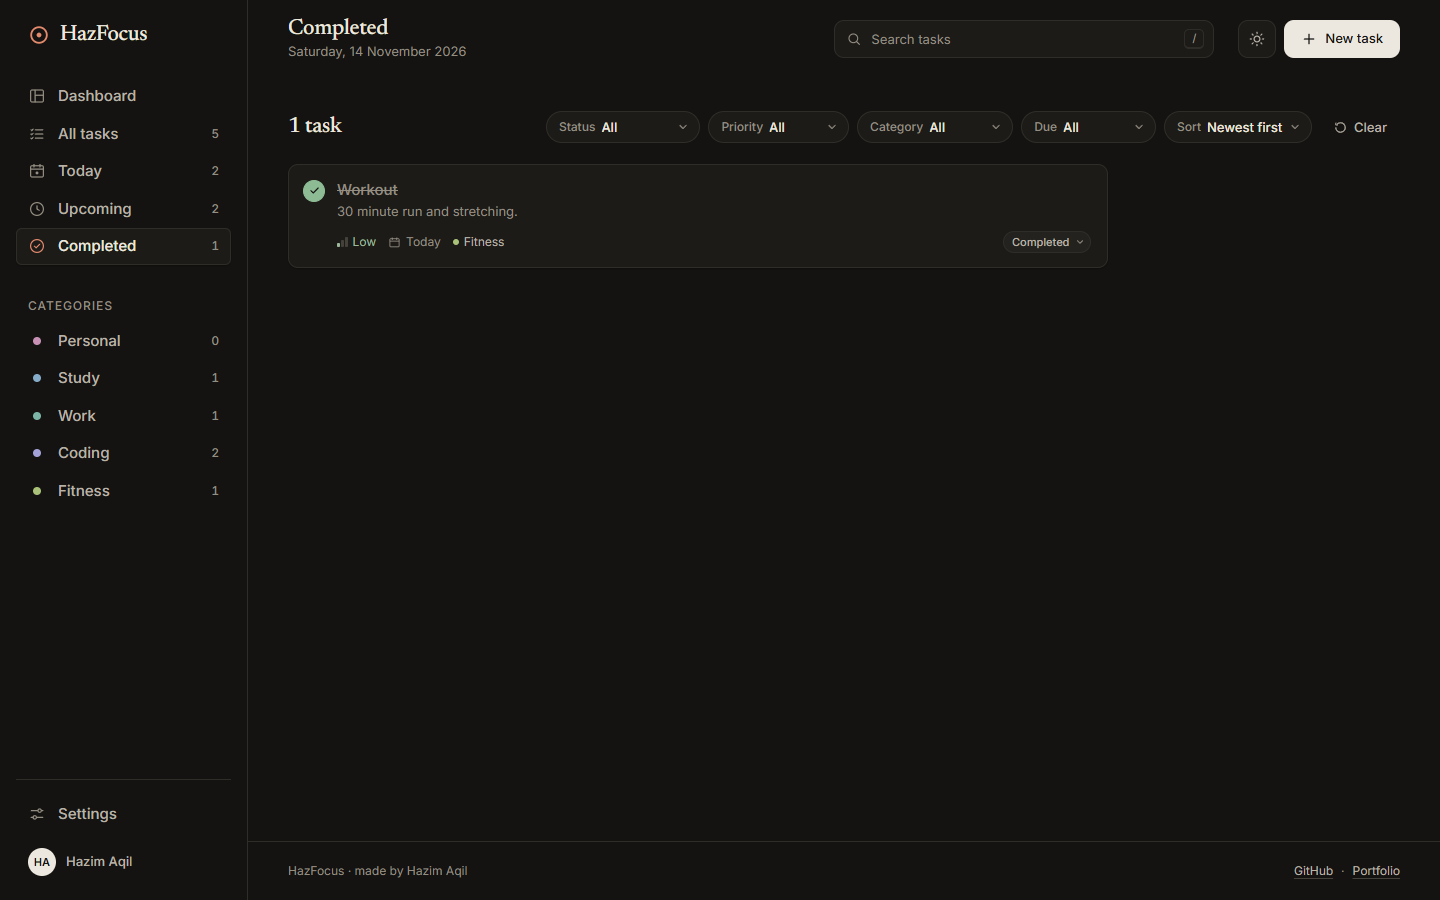
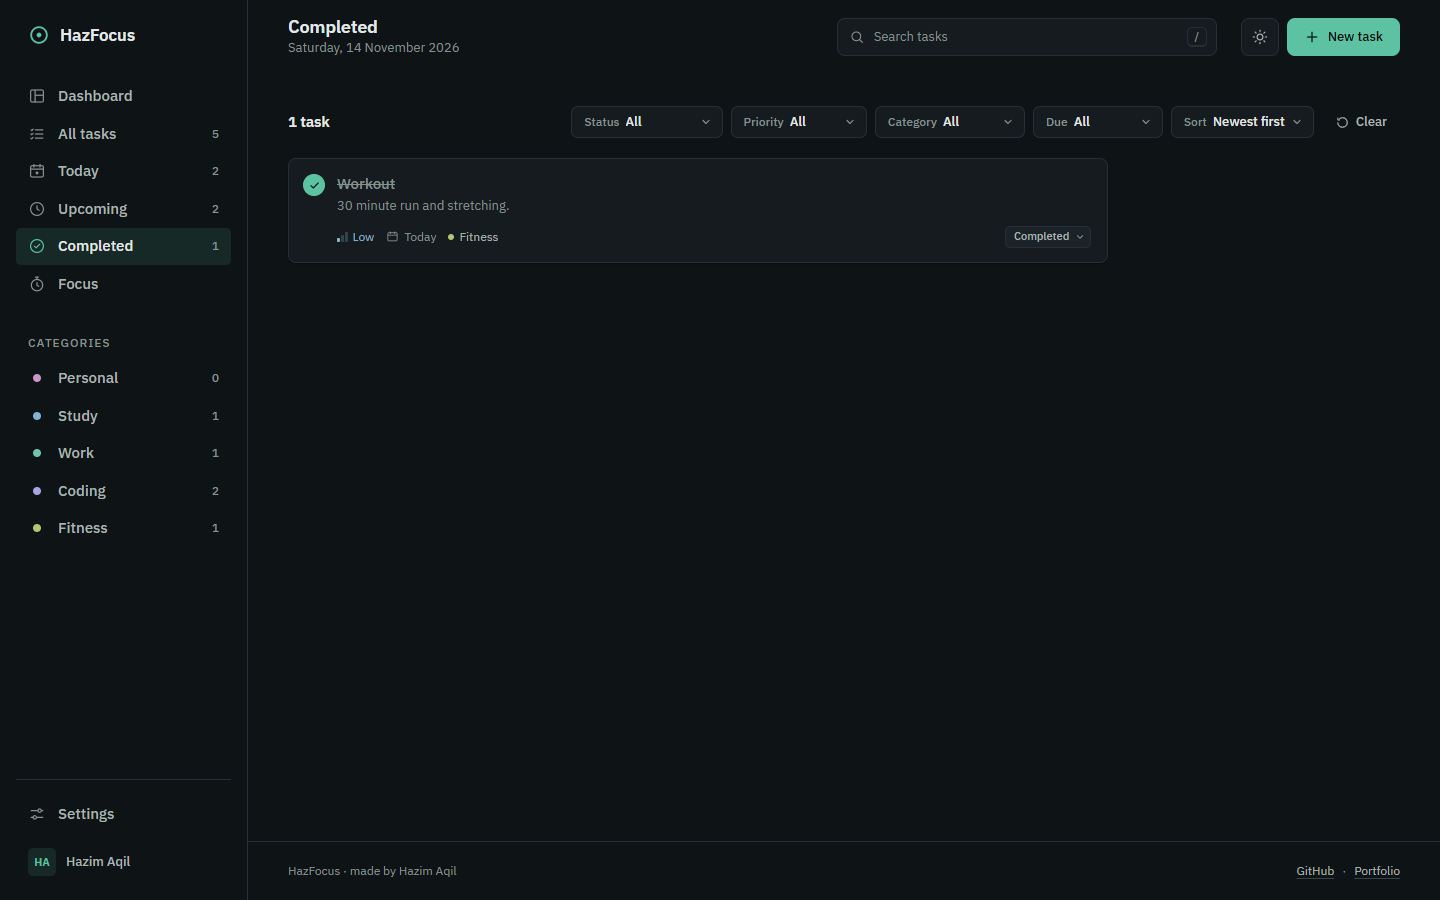
Add design notes, refresh screenshots and fix chart contrast
- add docs/DESIGN.md with the audit, slate and teal identity, colour
  tokens and the comparison with the portfolio
- update the readme feature list for the agenda, areas, last 7 days
  chart and day-grouped schedule
- replace the before/after screenshots in docs/redesign with the
  slate and teal version
- darken the light theme chart bars to #0d9488 so they reach 3:1
  contrast against the card

diff --git a/css/style.css b/css/style.css
@@ -74,7 +74,7 @@
   --cat-work: #0f766e;
   --cat-coding: #6d4fd8;
   --cat-fitness: #4d7c0f;
-  --chart: #14b8a6;
+  --chart: #0d9488;
 
   --shadow-sm: 0 1px 2px rgba(15, 23, 42, 0.05);
   --shadow-md: 0 1px 3px rgba(15, 23, 42, 0.06), 0 6px 18px rgba(15, 23, 42, 0.07);

diff --git a/docs/DESIGN.md b/docs/DESIGN.md
@@ -1,0 +1,76 @@
+# HazFocus design notes
+
+How the interface was audited and redesigned, and why it looks the way it does.
+
+## 1. Audit of the original design
+
+**Kept**
+- the information architecture: Dashboard, All tasks, Today, Upcoming, Completed, Focus, Settings
+- the kanban board with drag and drop, the status dropdown on each card, filters, sorting and search
+- the task model (title, notes, category, priority, due date, status) and every `localStorage` key
+- keyboard shortcuts, toasts, empty states, the confirmation modal
+
+**Improved**
+- typography: one sans family with a clear size and weight scale instead of mixed display fonts
+- the dashboard: it showed a few counters and a "needs attention" list, which made it look like a stats page instead of a personal workspace
+- the phone layout: a bottom tab bar, swipeable board lanes, bottom-sheet dialogs, and a fix for a horizontal overflow caused by the hidden chart table
+- dark mode: tuned as its own palette rather than a copy of the light one
+
+**Redesigned**
+- the whole colour system and component shapes (see section 2)
+- the dashboard became a workspace: agenda, areas, the last 7 days, and a progress summary
+- Upcoming and Today became a schedule grouped by day
+
+## 2. Product identity: a calm slate and teal tool
+
+HazFocus should feel like a quiet tool you leave open all day, not a showcase page.
+
+| | Light | Dark |
+|---|---|---|
+| Background | `#f8fafc` slate | `#0b1220` deep navy |
+| Surface | `#ffffff` | `#111a2b` |
+| Text | `#0f172a` / `#334155` / `#5b6779` | `#e2e8f0` / `#b4c0d0` / `#94a3b8` |
+| Accent (one only) | `#0f766e` teal | `#2dd4bf` teal |
+| Break timer | `#2563eb` | `#93c5fd` |
+| Status (overdue, high priority) | `#c62828` | `#f87171` |
+| Chart bars | `#0d9488` | `#2dd4bf` |
+
+- **Type:** Inter for everything. Hierarchy comes from size and weight, not from a second font.
+- **Shape:** soft 10 to 16px corners, pill chips and counts, tinted board lanes, white panel cards.
+- **Colour discipline:** teal is the only accent. Red appears only for overdue and high-priority items, so it always means something.
+- **Contrast:** every text pair meets WCAG AA in both themes, and the chart bars are above 3:1 against their card.
+- **Motion:** short, functional transitions, turned off under `prefers-reduced-motion`.
+
+All tokens are custom properties at the top of `css/style.css`. The dark theme overrides them under `[data-theme="dark"]`.
+
+## 3. Independence from my other projects
+
+The portfolio uses a warm near-black and cream palette, an orange accent, a serif display font and cream pill buttons. An earlier HazFocus redesign borrowed that same editorial look, so the two read like one template. This version deliberately moves away from it:
+
+| | Portfolio | HazFocus |
+|---|---|---|
+| Palette | warm black, cream | cool slate, deep navy |
+| Accent | orange | teal |
+| Type | serif display plus sans | one sans (Inter) |
+| Feel | editorial, showcase | quiet utility, workspace |
+
+I compared HazFocus against the live portfolio. The e-commerce project (HazStore) wasn't available to inspect, so it isn't compared here beyond avoiding its known editorial style.
+
+## 4. Workspace features (all from real data)
+
+No numbers are invented. Every view is built only from the user's own tasks and focus sessions.
+
+- **Agenda:** overdue, today and the next dated tasks, grouped by day (up to 8)
+- **Areas:** each category's done/total with a progress bar; clicking one opens that category with a summary strip
+- **Last 7 days:** tasks completed per day (from each task's `completedAt`) and focus minutes; hover or focus a bar for details; a hidden table backs it for screen readers
+- **Schedule:** when sorted by due date, task lists are grouped under day headings
+- **Focus timer:** Pomodoro cycle, a "working on" task, today's focus time and a distraction-free mode
+
+Older tasks saved without a completion date aren't counted in the chart, because there's no way to know when they were finished.
+
+## 5. Accessibility
+
+- semantic landmarks, labelled controls, `aria-live` toasts, focus rings on every control
+- the chart has a text summary, labelled bars and a table alternative
+- the board works without drag and drop (status dropdown), and on touch with a long press
+- larger controls in the phone tab bar; reduced-motion respected

diff --git a/README.md b/README.md
@@ -27,7 +27,8 @@ This project was built to practice core frontend skills without any framework or
 - **Sorting** by newest, oldest, due date, priority or alphabetical order
 - **Search** by title, description or category
 - **Statistics** (total, completed, pending, overdue) and a progress bar
-- **Needs attention** list on the dashboard with overdue and due-today tasks
+- **Workspace dashboard** with an agenda (overdue, today and the next dated tasks grouped by day), area progress per category and a last 7 days chart of completed tasks and focus minutes, all from your own data
+- **Schedule view**: when sorted by due date, task lists are grouped under day headings
 - **Focus timer** (Pomodoro): 25 minute focus sessions, short breaks and a long break after every fourth session, with adjustable lengths, a soft chime, a "working on" task, today's focus time and a distraction-free mode
 - **Keyboard shortcuts**: `N` new task, `/` search, `1`–`6` switch views, `Space` start or pause the timer, `R` reset it, `F` hide distractions, `Esc` close or clear
 - **Views** for Dashboard, All tasks, Today, Upcoming and Completed
@@ -38,7 +39,7 @@ This project was built to practice core frontend skills without any framework or
 
 ## Design
 
-HazFocus uses one sans family (Inter) with weight and size for hierarchy, cool slate neutrals and a single calm teal accent (`#0f766e` in light, `#2dd4bf` in dark). Red is kept only for overdue and high-priority status. Cards and inputs use soft 10 to 16px corners, the board lanes are tinted surfaces and status chips are pills. All colour tokens live at the top of `css/style.css` and every text pair meets WCAG AA in both themes. Screenshots of the dashboard, board and focus view in both themes, at desktop and phone width, are in [`docs/slate-teal`](docs/slate-teal).
+HazFocus uses one sans family (Inter) with weight and size for hierarchy, cool slate neutrals and a single calm teal accent (`#0f766e` in light, `#2dd4bf` in dark). Red is kept only for overdue and high-priority status. Cards and inputs use soft 10 to 16px corners, the board lanes are tinted surfaces and status chips are pills. All colour tokens live at the top of `css/style.css` and every text pair meets WCAG AA in both themes. Screenshots of the dashboard, board and focus view in both themes, at desktop and phone width, are in [`docs/slate-teal`](docs/slate-teal). The full design notes, audit and colour tokens are in [`docs/DESIGN.md`](docs/DESIGN.md).
 
 ## Technologies
 
@@ -73,7 +74,10 @@ Haz-Focus/
 │   └── icons/
 │       └── favicon.svg
 └── docs/
-    └── screenshot.png
+    ├── DESIGN.md
+    ├── screenshot.png
+    ├── redesign/
+    └── slate-teal/
 ```
 
 ## Setup
@@ -103,7 +107,7 @@ You can also open `index.html` directly in a browser. An internet connection is 
 - Cloud synchronization
 - Recurring tasks
 - Reminders and notifications
-- Calendar view
+- Month calendar view
 - Subtasks
 - Team collaboration
 - A React version of the project
